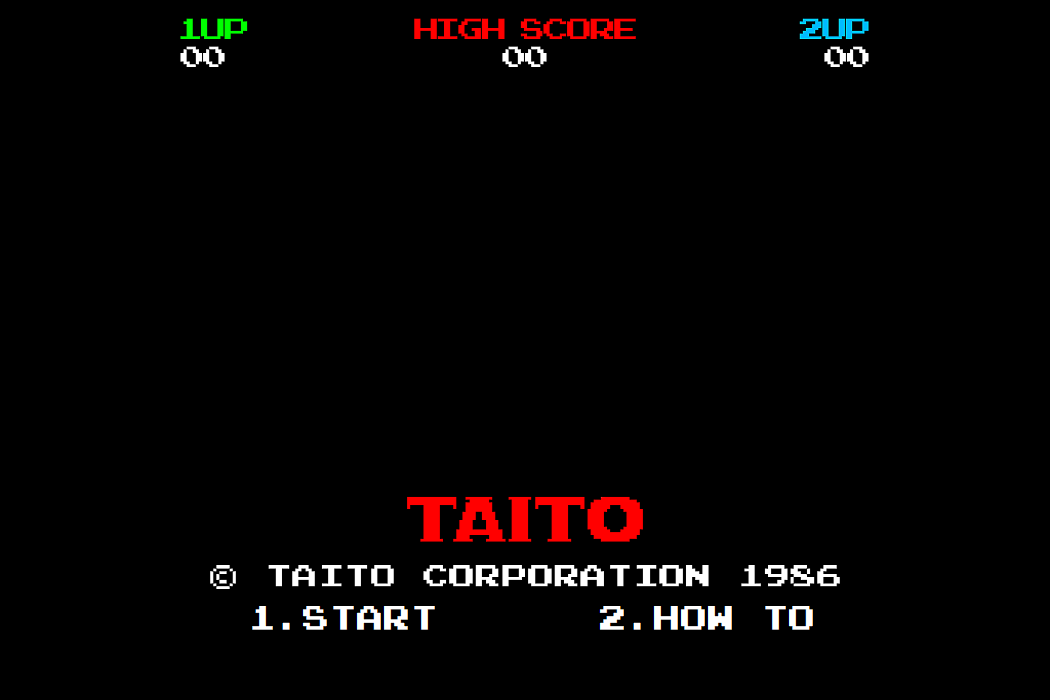
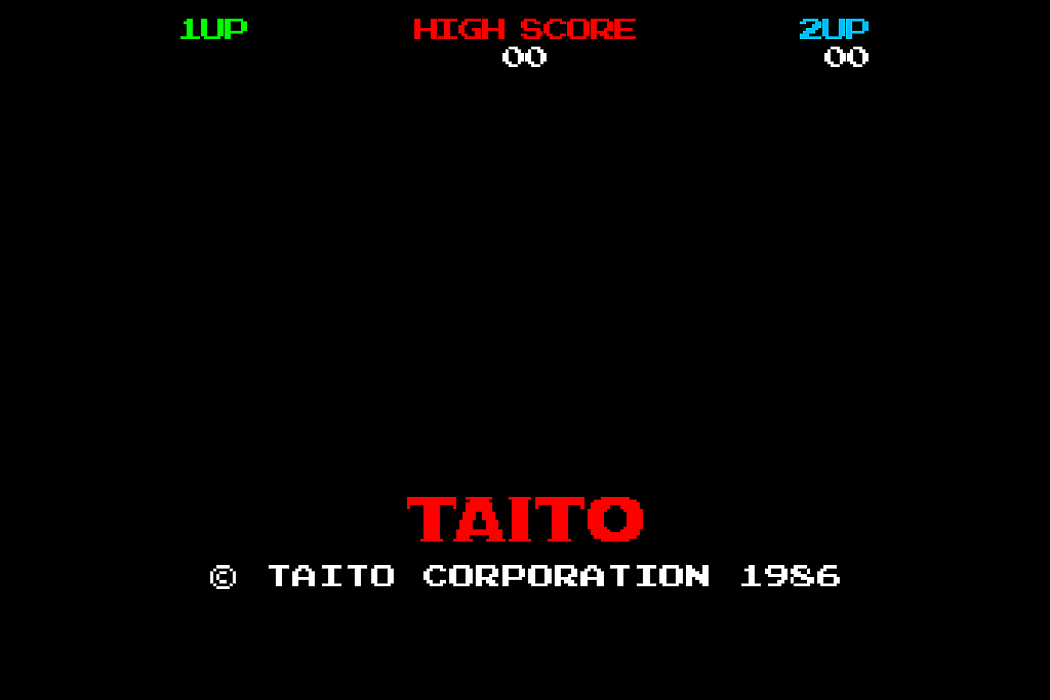
cheayoung 0501 20:39

diff --git a/startpage.py b/startpage.py
@@ -1,16 +1,17 @@
 import pygame
 from pygame.locals import *
 import time
-import keyboard
-import sys
+from settings import *
+from sprites import *
 
 class Bubble:
     def __init__(self):
         WHITE = {255, 255,255}
         self._running = True
         self._display_surf = None
-        self.size = self.weight, self.height = 1050, 700
+        self.size = self.weight, self.height = WIDTH, HEIGHT
         self.clock = pygame.time.Clock()
+        self.score = 0
 
     def on_init(self):
         pygame.init()
@@ -19,42 +20,57 @@ class Bubble:
     
     def loadimage(self,image,location):
         load_image = pygame.image.load(image).convert()
-        self._display_surf.blit(load_image,location)   
+        self._display_surf.blit(load_image,location)
 
-    def start(self):
-        start_background = pygame.mixer.Sound("MainTheme.ogg")
-        start_background.play()
-        
+    def printword_white(self,size, word,location):
+        font = pygame.font.Font(BUBBLE_FONT,size)
+        text = font.render(word,True,WHITE)
+        self._display_surf.blit(text,location)   
 
-        self.loadimage("./image/start.png",(0,0))
-        pygame.display.flip()
+    def show_start_screen(self):
+        start_music = pygame.mixer.Sound("MainTheme.ogg")
+        start_music.play()
 
-        press = True
         color = 1
         progress_sec=0
-        while press:
+        while(True):
             progress_sec +=1
-
-            if(color == 1):
-                self.loadimage('image/pink_bubble.png',(0,0))
-                color = 0
+            self._display_surf.fill(WHITE)
+            self.loadimage(START_SCREEND,(0,0))
+            string_score = "00"
+            if(self.score !=0):
+                string_score = str(self.score)
+            self.printword_white(18,string_score,(175,56))
+            self.printword_white(18,"A.START            B.TUTORIAL",(273,600))
+            #self.printword_white(18,string_score,(490,56))
+            if(progress_sec>60):
+                if(color == 1):
+                    self.loadimage(PINK_SUPERBUBBLE,(260,70))
+                    color = 0
+                else:
+                    self.loadimage(YELLOW_SUPERBUBBLE,(260,70))
+                    color = 1
             else:
-                self.loadimage('image/yellow_bubble.png',(0,0))
-                color = 1
+                if(color == 1):
+                    self.loadimage(PINK_BUBBLE,(260,70))
+                    color = 0
+                else:
+                    self.loadimage(YELLOW_BUBBLE,(260,70))
+                    color = 1
             pygame.display.flip()
-            self.clock.tick(120)
+            self.clock.tick(FPS)
 
-            keys = pygame.key.get_pressed()
-            if keys[pygame.K_1] :
-                print('1')
-                press = False
-            elif keys[pygame.K_2] :
-                print('2')
-                press = False
+            for event in pygame.event.get():
+                if(event.type ==pygame.K_a):
+                    print("a")
+                    break
+                elif(event.type == pygame.K_b):
+                    print('b')
+                    break
             
-            if(progress_sec > 100):
-                press = False
-        start_background.stop()
+            if(progress_sec > 200):
+                break
+        start_music.stop()
 
     def on_event(self, event):
         if event.type == pygame.QUIT:
@@ -71,14 +87,7 @@ class Bubble:
     def on_execute(self):
         if self.on_init() == False:
             self._running = False
-
-        while( self._running ):
-            for event in pygame.event.get():
-                self.on_event(event)
-            self.start()
-            self.on_loop()
-            self.on_render()
-            
+        self.show_start_screen()            
         self.on_cleanup()
 
 if __name__ == "__main__" :

diff --git a/settings.py b/settings.py
@@ -1,0 +1,19 @@
+#base properities
+WIDTH = 1050
+HEIGHT = 700
+FPS = 120
+
+#Font
+BUBBLE_FONT = "PressStart2P.ttf"
+
+#define color
+WHITE = (255, 255, 255)
+BLACK = (0,0,0)
+
+#Image
+YELLOW_BUBBLE = "./image/yellow_bubble.png"
+PINK_BUBBLE = "./image/pink_bubble.png"
+YELLOW_SUPERBUBBLE = "./image/yellow_superbubble.png"
+PINK_SUPERBUBBLE = "./image/pink_superbubble.png"
+START_SCREEND = "./image/start.png"
+ENDING_IMAGE = "./image/end.png"

diff --git a/sprites.py b/sprites.py
@@ -1,0 +1,4 @@
+import pygame
+from settings import *
+
+
